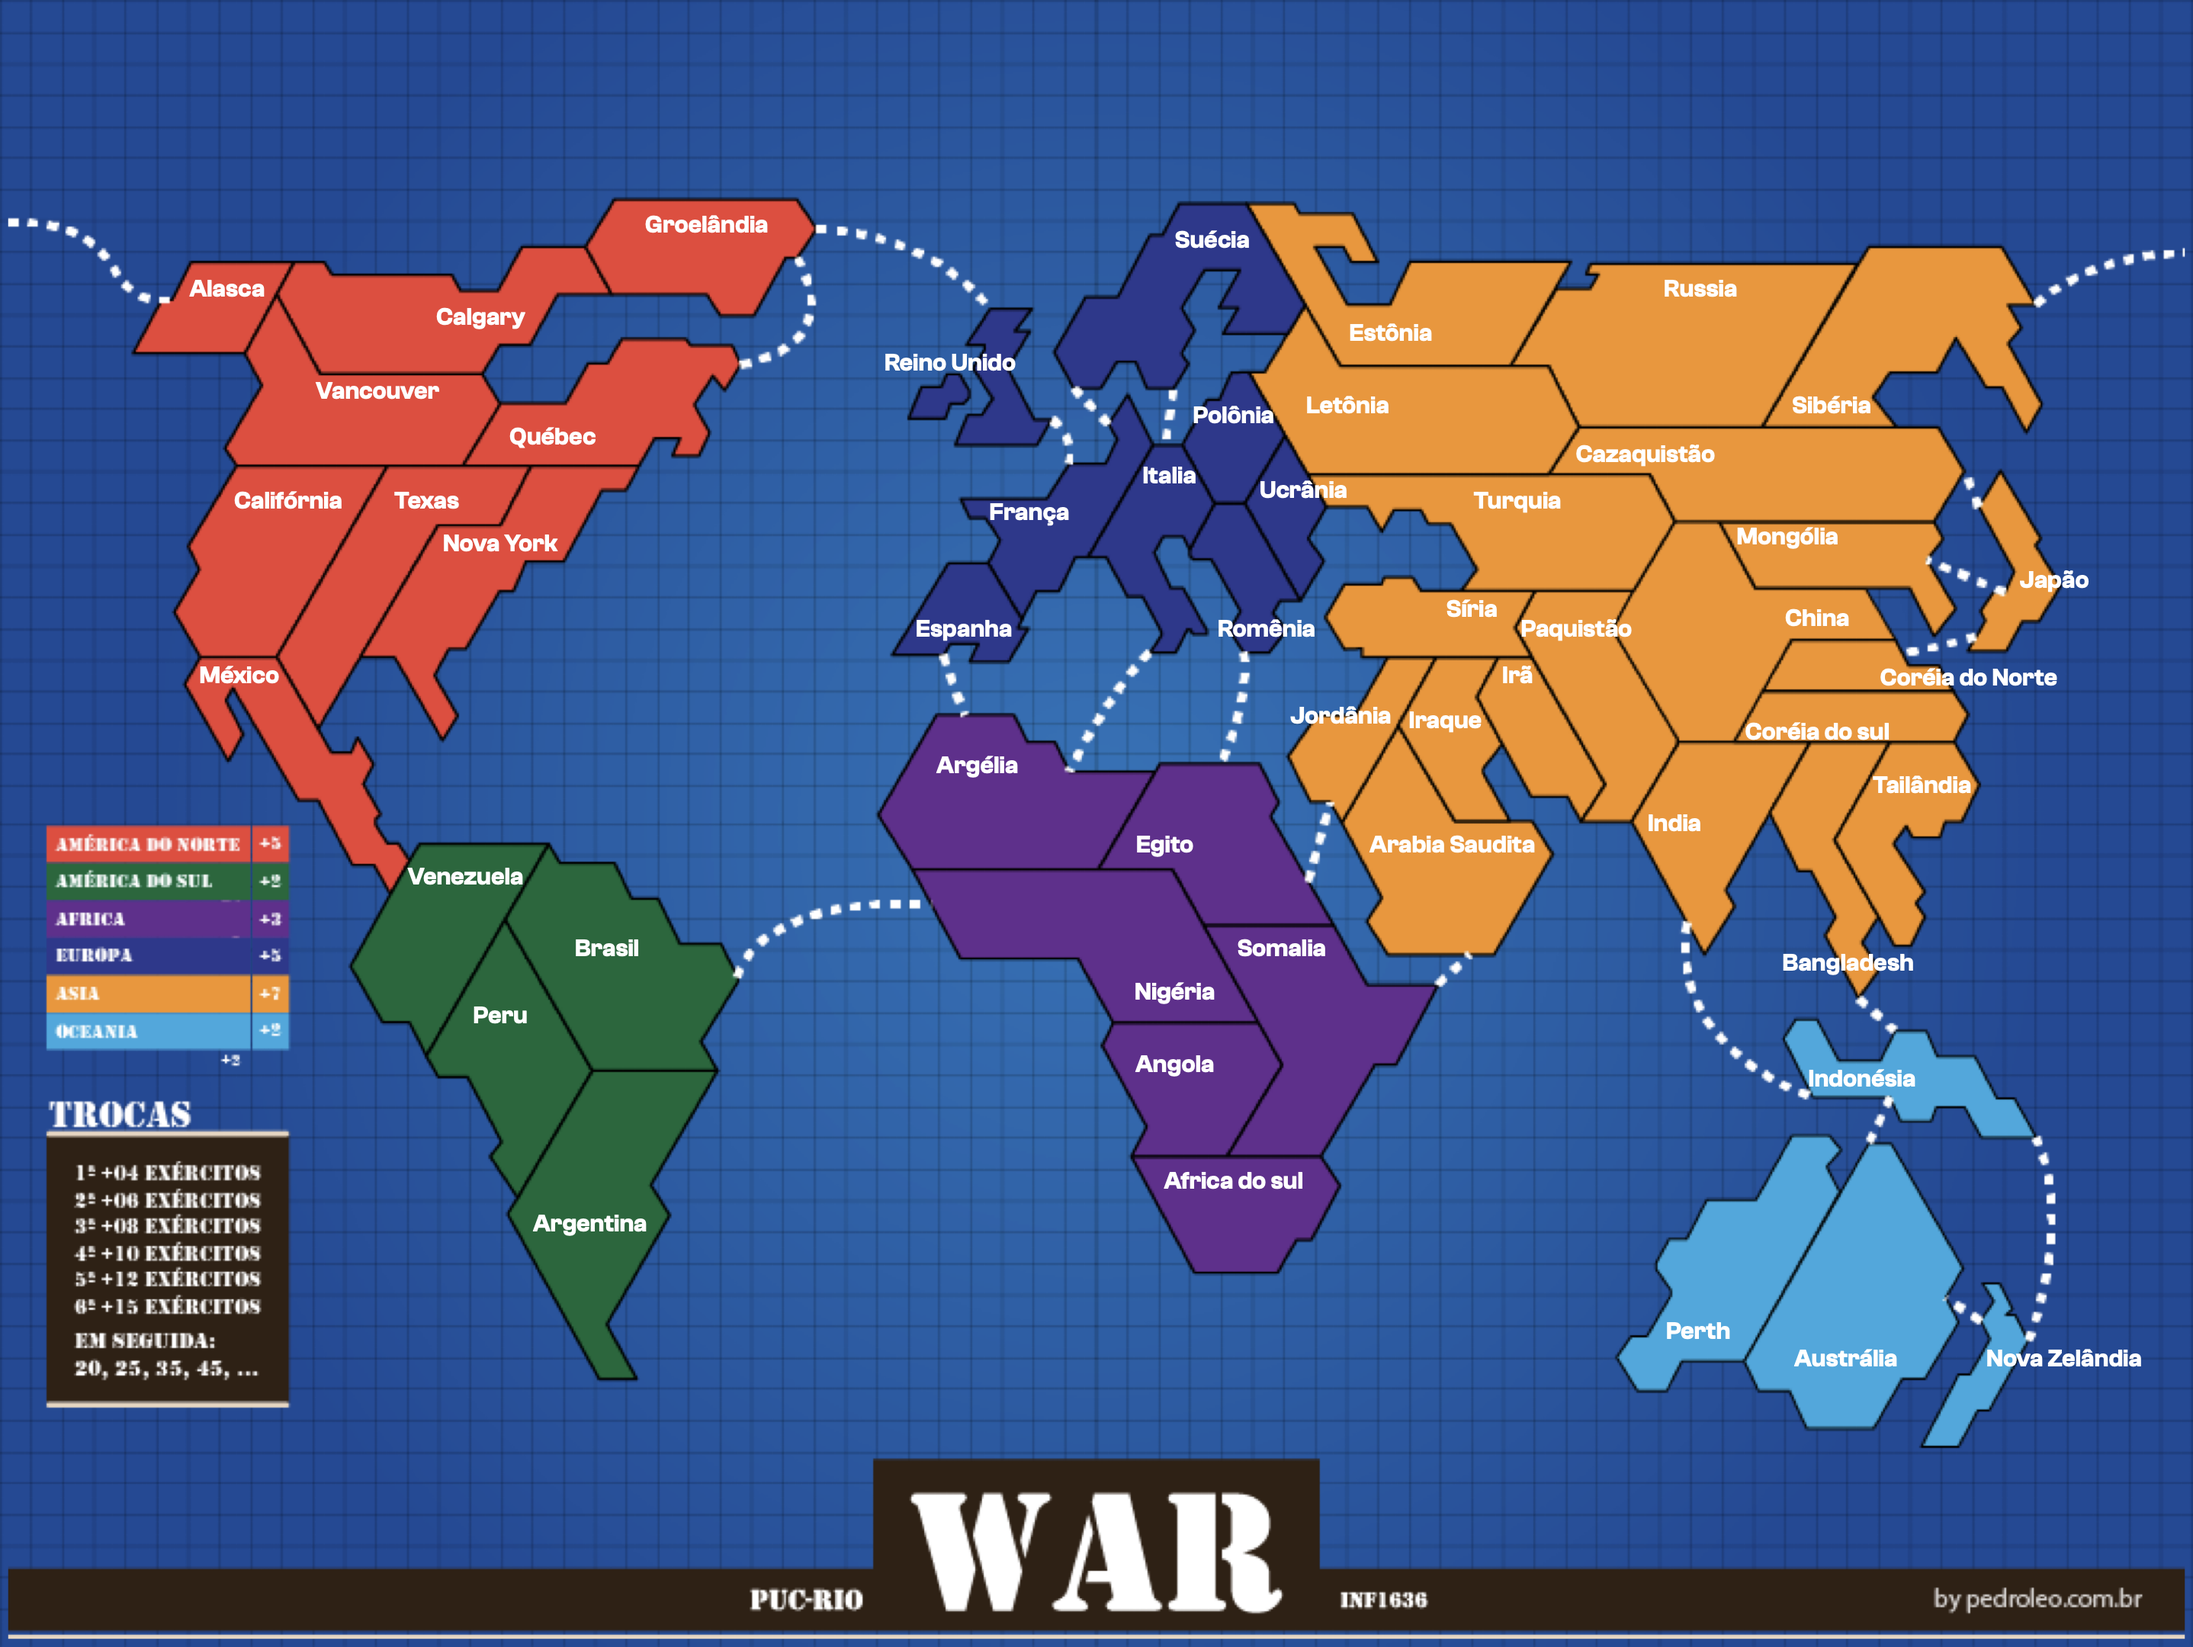
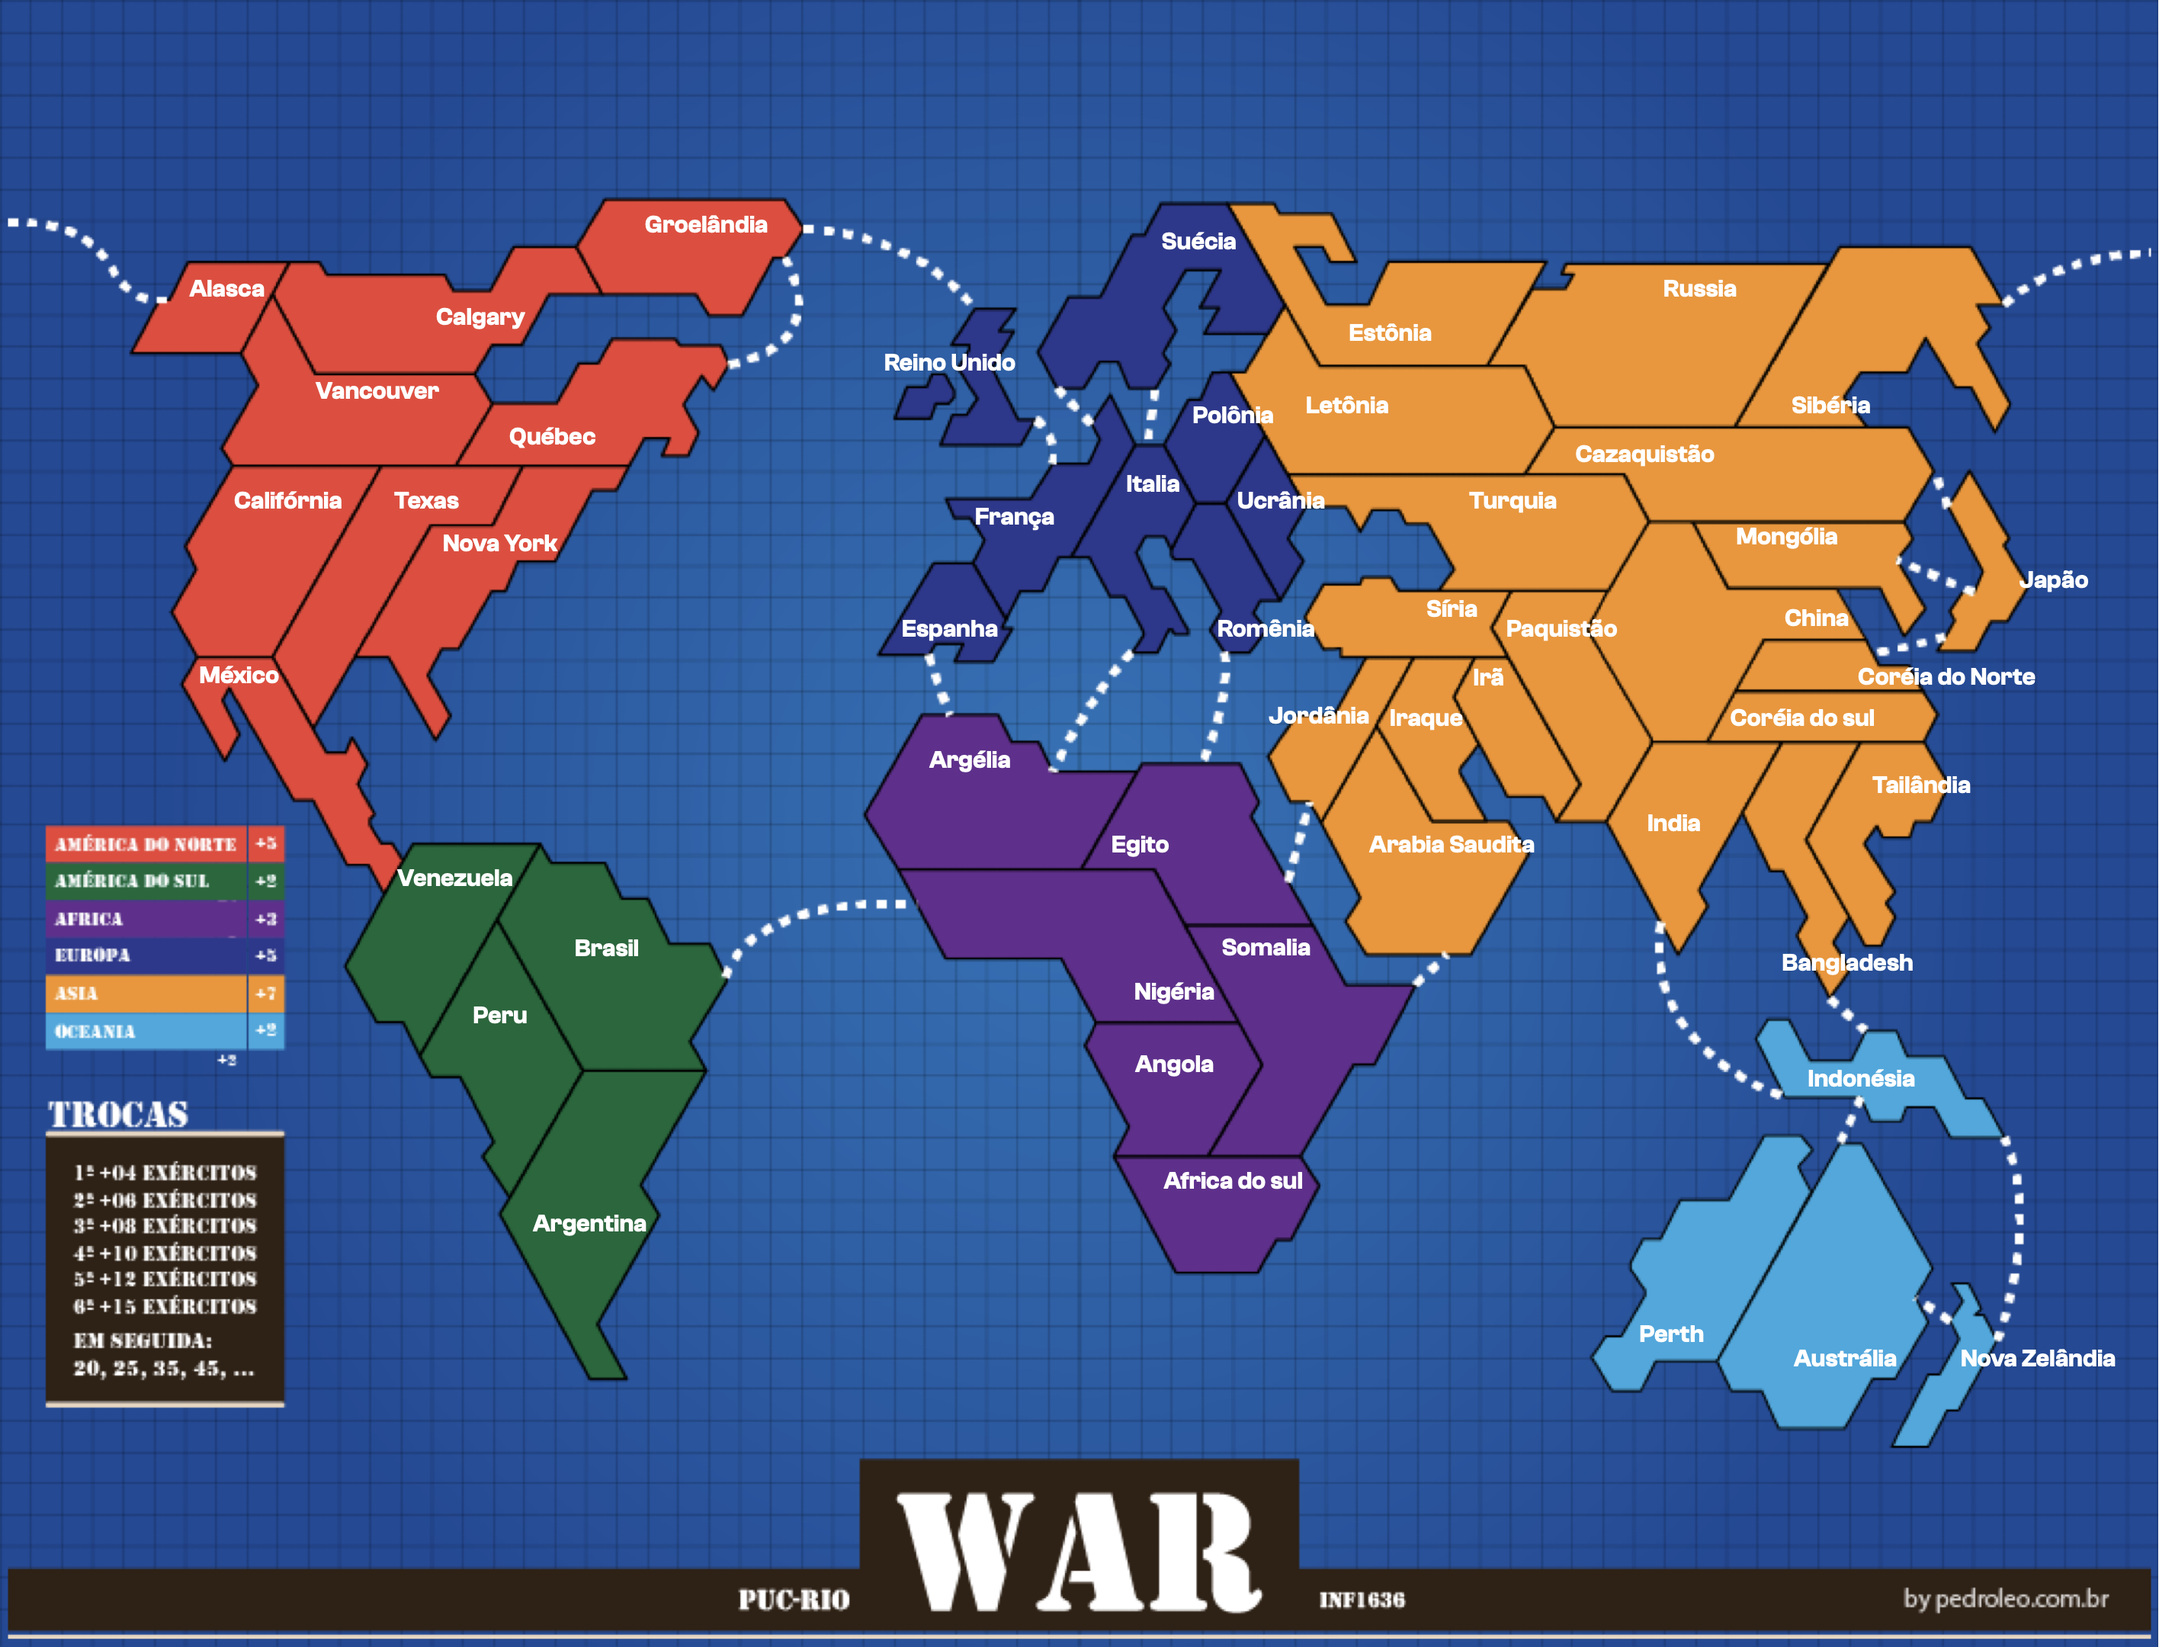
agora sim a imagem de fundo ta certa

diff --git a/src/View/MapView.java b/src/View/MapView.java
@@ -54,7 +54,7 @@ public class MapView extends JPanel {
     public void paintComponent(Graphics g) {
         super.paintComponent(g);
         this.g = (Graphics2D) g;
-        this.g.drawImage(backgroundImage, 0, 0, 1440, 800, null);
+        this.g.drawImage(backgroundImage, 0, 0, 1440, 900, null);
     }
 
     //singleton
